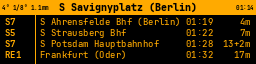
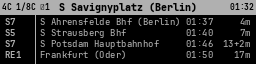
feat: enhance bus line prefixing and update weather display format

diff --git a/src/infodisplay/renderer.py b/src/infodisplay/renderer.py
@@ -79,6 +79,8 @@ class DepartureRenderer:
                 header_path, station_name_size
             )
         self.font_header = ImageFont.truetype(header_path, header_size)
+        info_size = max(6, round((header_size + station_name_size) // 2))
+        self.font_info = ImageFont.truetype(header_path, info_size)
         self.font_departure = ImageFont.truetype(main_path, departure_size)
         self.font_linie = ImageFont.truetype(header_path, departure_size)
         self.font_remark = ImageFont.truetype(remark_path, remark_size)
@@ -177,29 +179,29 @@ class DepartureRenderer:
         cy = self.station_name_height // 2
         margin = max(2, round(4 * self.scale))
 
-        # Weather info (left-aligned, smaller font)
+        # Weather info (left-aligned)
         if weather is not None:
             weather_str = (
-                f"{weather.current_temp:.0f}°"
-                f" {weather.daily_low:.0f}/{weather.daily_high:.0f}°"
+                f"{weather.current_temp:.0f}C"
+                f" {weather.daily_low:.0f}/{weather.daily_high:.0f}C"
                 f" {weather.precip_summary}"
             )
             draw.text(
                 (margin, cy),
                 weather_str,
                 fill=BLACK,
-                font=self.font_header,
+                font=self.font_info,
                 anchor="lm",
             )
 
-        # Current time (right-aligned, smaller font)
+        # Current time (right-aligned)
         now = datetime.now()
         time_str = now.strftime("%H:%M")
         draw.text(
             (self.width - margin, cy),
             time_str,
             fill=BLACK,
-            font=self.font_header,
+            font=self.font_info,
             anchor="rm",
         )
         # Station name (centered)
@@ -575,6 +577,8 @@ def run_render_test(config=None) -> str:
     )
 
     mode = config.display.mode if config is not None else "pygame"
+    if mode == "ssd1322":
+        img = img.convert("L").convert("RGB")
     output_path = str(_ROOT / f"test_output_{mode}.png")
     img.save(output_path)
     return output_path

diff --git a/src/infodisplay/models.py b/src/infodisplay/models.py
@@ -55,8 +55,8 @@ def parse_departure(raw: dict) -> Departure:
     # Prefix tram lines without "M" with "M" for consistency with MetroTram branding
     if line_product == "tram" and line_name and not line_name.startswith("M"):
         line_name = f"M{line_name}"
-    # Prefix bus lines with "B"
-    if line_product == "bus" and line_name and not line_name.startswith("B"):
+    # Prefix bus lines with "B" (skip night buses which already have "N")
+    if line_product == "bus" and line_name and not line_name.startswith(("B", "N")):
         line_name = f"B{line_name}"
 
     return Departure(

diff --git a/src/infodisplay/weather.py b/src/infodisplay/weather.py
@@ -39,8 +39,8 @@ class WeatherData:
         """Short precipitation summary for display."""
         total = self.precip_total
         if total == 0:
-            return "0mm"
-        return f"{total:.1f}mm"
+            return ""
+        return f"\u2602{round(total)}"
 
 
 def fetch_weather(lat: float, lon: float) -> WeatherData:
